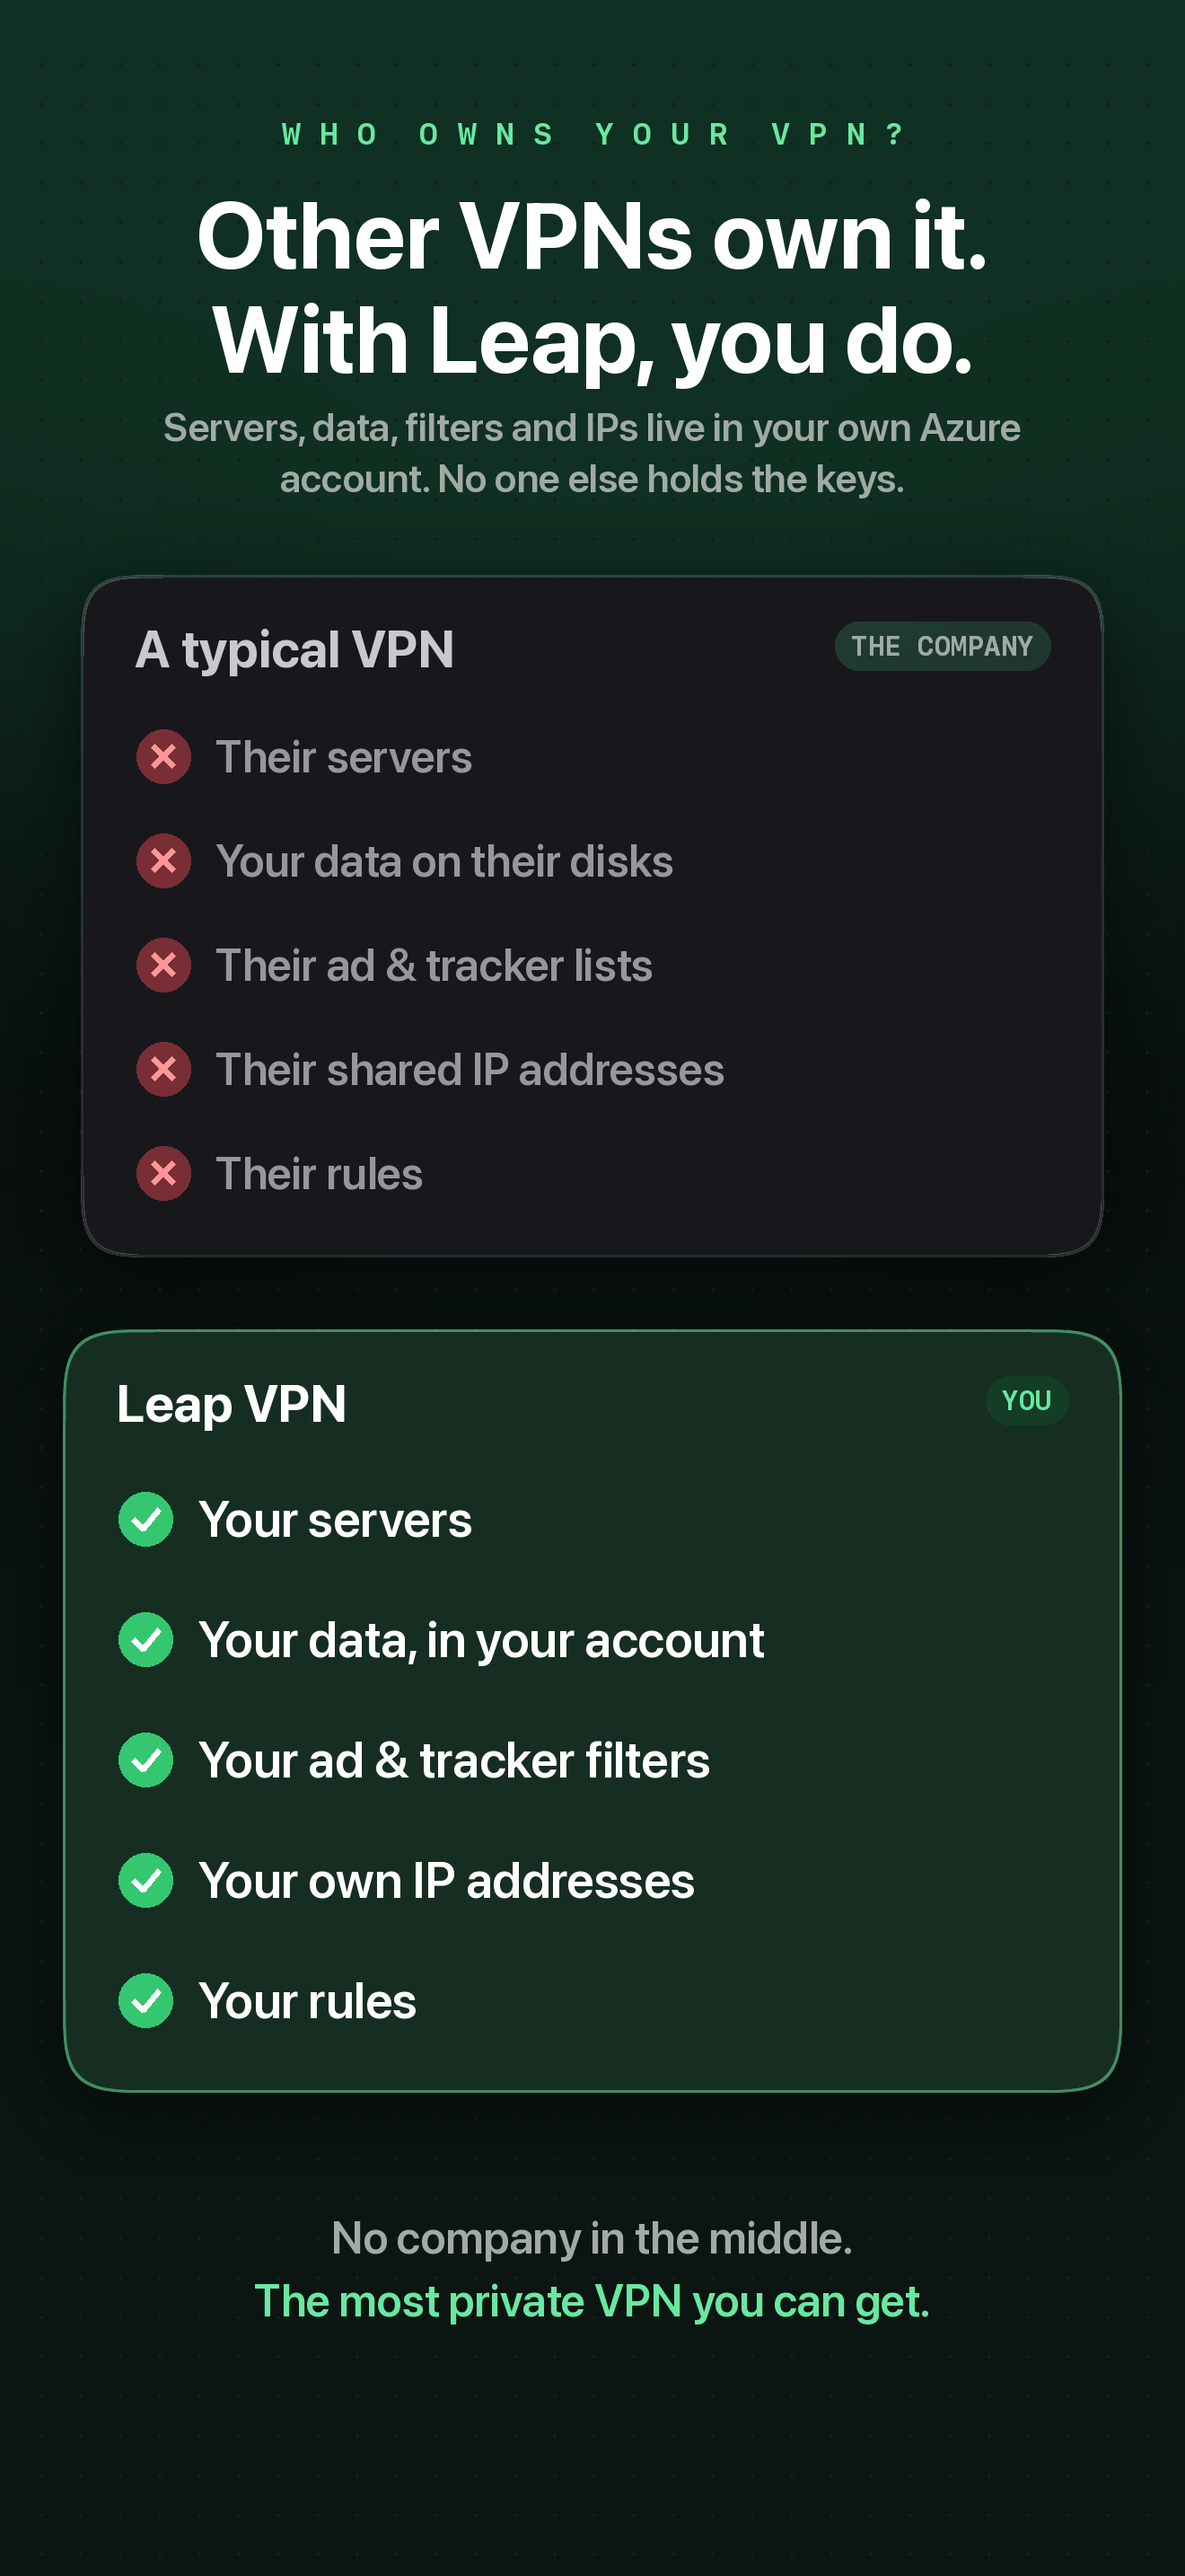
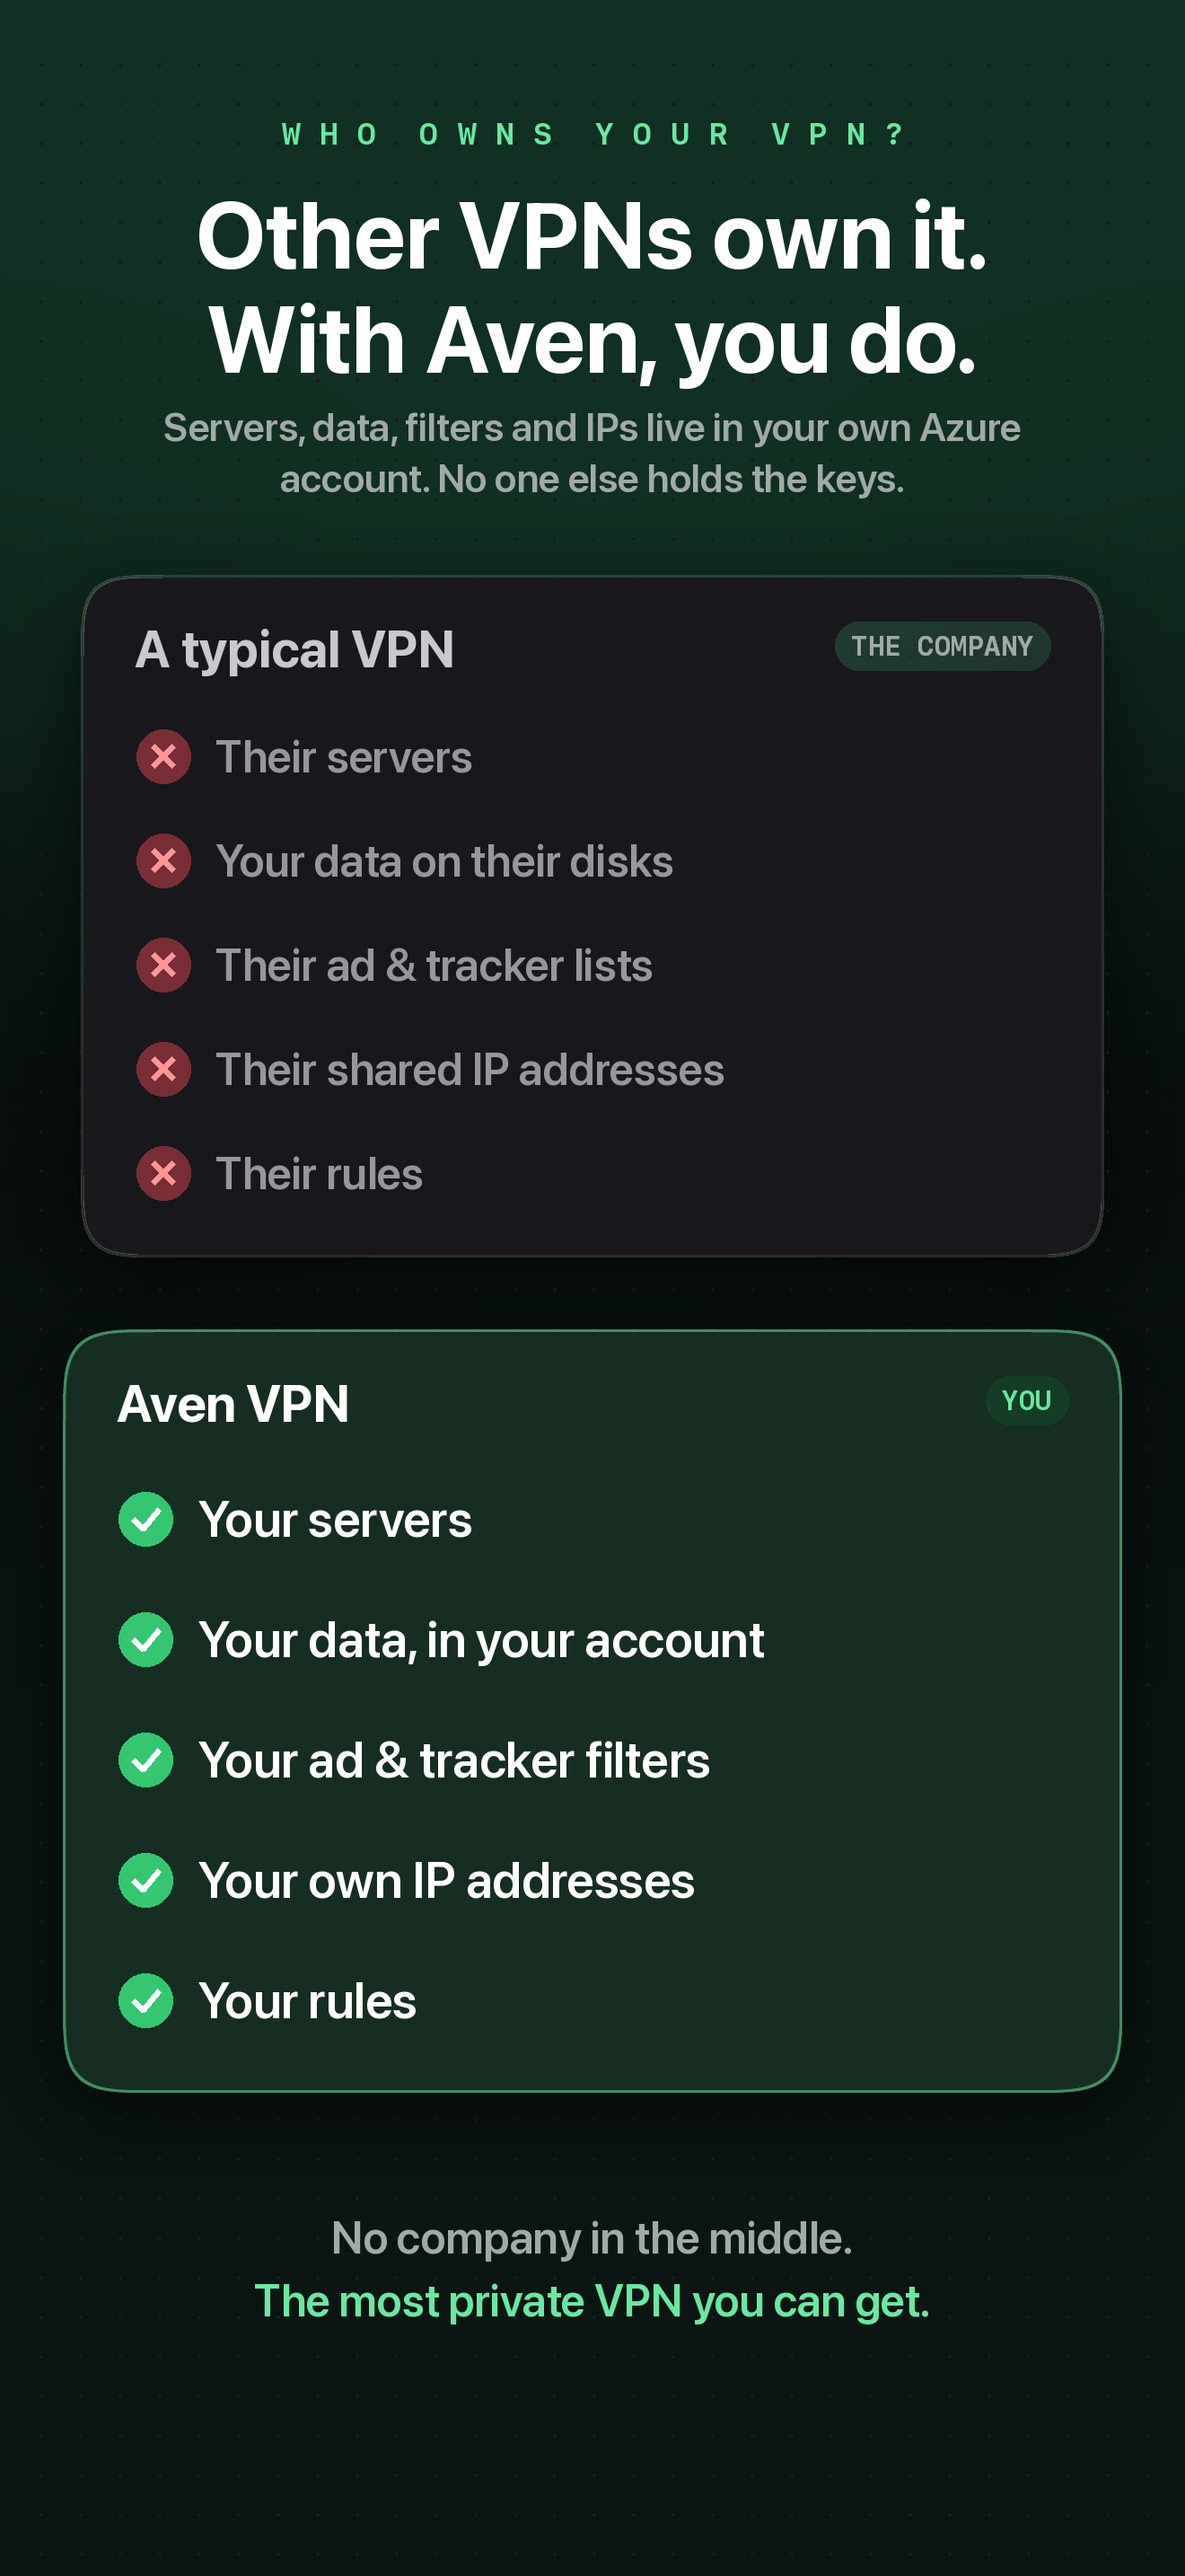
Aven VPN: new name, privacy URL and keywords; recaptured Mac screenshots
Drop 'Own the Network' (registered Auvik Networks mark). App Store name is now
'Aven VPN: Your Private Cloud'. Privacy and site URLs move to /avenvpn paths.

Changed region(s): [[0.3727, 0.0931, 0.8076, 0.1552], [0.0932, 0.5275, 0.2795, 0.5586], [0.1864, 0.1241, 0.3417, 0.1552]]

diff --git a/plugins/azure/skills/vpn/mac/Sources/AvenVPN/Store.swift b/plugins/azure/skills/vpn/mac/Sources/AvenVPN/Store.swift
@@ -251,7 +251,7 @@ final class Store: ObservableObject {
     }
 
     static let terms = URL(string: "https://www.apple.com/legal/internet-services/itunes/dev/stdeula/")!
-    static let privacy = URL(string: "https://sololeapinc.com/privacy/leapvpn")!
+    static let privacy = URL(string: "https://sololeapinc.com/privacy/avenvpn")!
     static let manage = URL(string: "https://apps.apple.com/account/subscriptions")!
 
     /// Starts listening for transactions (renewals, Ask to Buy, purchases on the other device)

diff --git a/plugins/azure/skills/vpn/appstore/metadata.md b/plugins/azure/skills/vpn/appstore/metadata.md
@@ -1,13 +1,13 @@
 # Aven VPN — App Store metadata (draft for review, not submitted)
 
-Name (30 max): **Aven VPN: Own the Network** (25). "Aven VPN" alone is taken.
+Name (30 max): **Aven VPN: Your Private Cloud** (28). "Aven VPN" alone is taken; fallback "Aven VPN: Your Own Private VPN". "Own the Network" was dropped: it is a registered Auvik Networks mark (US Reg. 6763133).
 Subtitle (30 max): **Your Network. Your Rules** (24)
 Categories: Utilities (primary), Productivity (secondary)
 Price: Free download; connecting requires an auto-renewing subscription (Aven VPN Plus: $11.99/month or $79.99/year, launch price $0.99/month for 12 months or $9.99 for the first year, 2-week free trial for eligible new subscribers). The same subscription group serves both iPhone and Mac — one app record (6834297538), universal purchase.
 Copyright: 2026 Vignesh Ramamoorthy
-Marketing URL: https://sololeapinc.com/leapvpn
-Support URL: https://sololeapinc.com/leapvpn#support
-Privacy Policy URL: https://sololeapinc.com/privacy/leapvpn
+Marketing URL: https://sololeapinc.com/avenvpn
+Support URL: https://sololeapinc.com/avenvpn#support
+Privacy Policy URL: https://sololeapinc.com/privacy/avenvpn
 Age rating: 4+ (no objectionable content; unrestricted web access answer: the app itself has no browser — answer "No").
 
 ## Promotional text (170 max)
@@ -16,7 +16,7 @@ Other VPNs route you through servers they own. Aven VPN builds yours, in your ow
 
 ## Keywords (100 max, comma-separated, no spaces; no trademarks; no words already in name/subtitle)
 
-wireguard,azure,private,privacy,adblock,tracker,blocker,travel,secure,wifi,proxy,personal,cloud,ip
+wireguard,azure,privacy,adblock,tracker,blocker,travel,secure,wifi,proxy,personal,ip,hotspot
 
 (98 characters)
 
@@ -55,7 +55,7 @@ AVEN VPN PLUS
 Start with a 2-week free trial. Connecting to your servers needs Aven VPN Plus after the trial: $11.99 a month or $79.99 a year, with a launch price of $0.99 a month for the first 12 months or $9.99 for the first year; setting up servers and browsing the app stay free. Eligible new subscribers get the 2-week free trial once per Apple Account. Payment is charged to your Apple Account at confirmation of purchase. The subscription renews automatically unless cancelled at least 24 hours before the end of the current period. Manage or cancel in your Apple Account settings. Azure usage is billed separately by Microsoft to your own Azure subscription.
 
 Terms of Use: https://www.apple.com/legal/internet-services/itunes/dev/stdeula/
-Privacy Policy: https://sololeapinc.com/privacy/leapvpn
+Privacy Policy: https://sololeapinc.com/privacy/avenvpn
 
 "WireGuard" is a registered trademark of Jason A. Donenfeld.
 
